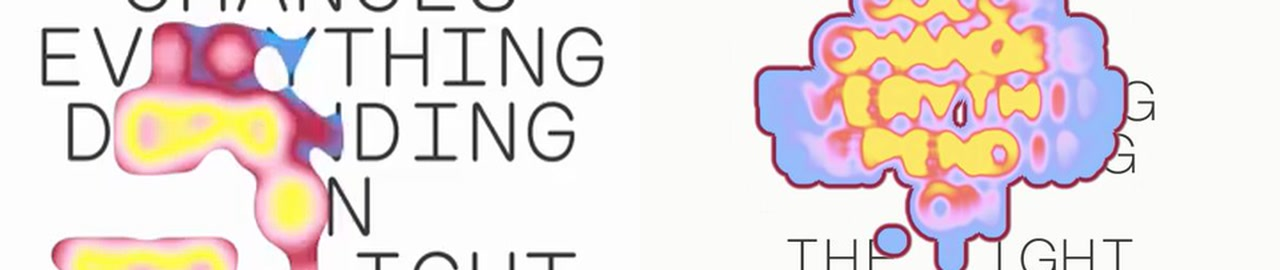
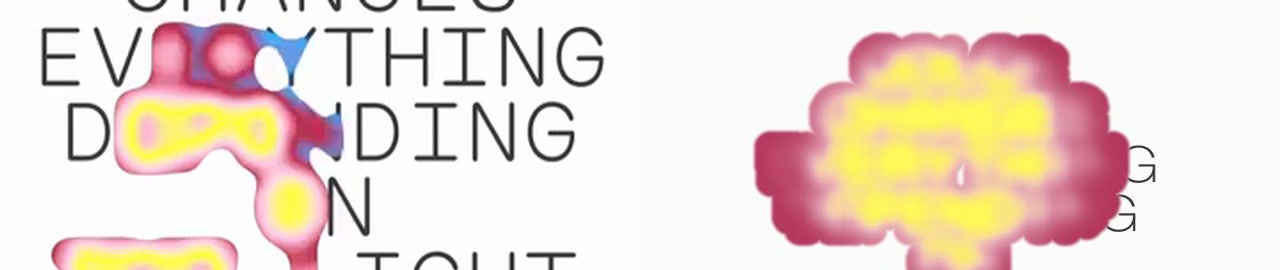
fix: blend color field without outline

Changed region(s): [[0.5625, 0.0, 0.9062, 1.0]]

diff --git a/pages/color-changes/script.ts b/pages/color-changes/script.ts
@@ -6,8 +6,8 @@ const ART_HEIGHT = 600;
 const TEXTURE_SCALE = 3;
 const FIELD_WIDTH = ART_WIDTH;
 const FIELD_HEIGHT = ART_HEIGHT;
-const COLOR_BLUR_TAPS = 12;
-// Coverage stops at 10.2 artwork pixels, so a local 16→1 flood is sufficient.
+const COLOR_BLUR_TAPS = 20;
+// Coverage stops inside the local 16 px search radius, so a 16→1 flood is sufficient.
 const JFA_JUMPS = [16, 8, 4, 2, 1, 1];
 const searchParams = new URLSearchParams(window.location.search);
 const QA_MODE = searchParams.has('qa');
@@ -28,11 +28,10 @@ const state = {
   lightFalloff: 0.12,
   seedThreshold: 0.085,
   bodyRadius: 13.4,
-  rimWidth: 3.6,
-  colorBlurSigma: 6.0,
+  colorBlurSigma: 9.0,
   colorBlurStep: 1.0,
-  colorFloor: 0.055,
-  colorRange: 0.64,
+  colorFloor: 0.035,
+  colorRange: 0.55,
   hueBands: 0.31,
   colorCycle: 8.0,
   pointerEase: 4.3,
@@ -351,7 +350,6 @@ const finalMaterial = new THREE.ShaderMaterial({
     uniform vec2 uPosterSize;
     uniform vec2 uArtSize;
     uniform float uBodyRadius;
-    uniform float uRimWidth;
     uniform float uColorFloor;
     uniform float uColorRange;
     uniform float uHueBands;
@@ -368,16 +366,6 @@ const finalMaterial = new THREE.ShaderMaterial({
       return fract(52.9829189 * fract(dot(pixel, vec2(0.06711056, 0.00583715))));
     }
 
-    float coverageAt(vec2 sampleUv) {
-      if (sampleUv.x < 0.0 || sampleUv.x > 1.0 || sampleUv.y < 0.0 || sampleUv.y > 1.0) {
-        return 0.0;
-      }
-      vec4 sampleNearest = texture2D(uNearest, sampleUv);
-      if (sampleNearest.a < 0.5) return 0.0;
-      float sampleDistance = length((sampleUv - sampleNearest.xy) * uArtSize);
-      return 1.0 - smoothstep(uBodyRadius - 1.1, uBodyRadius + 1.1, sampleDistance);
-    }
-
     void main() {
       vec2 fragment = vUv * uResolution;
       vec2 artUv = (fragment - uPosterOffset) / uPosterSize;
@@ -391,7 +379,6 @@ const finalMaterial = new THREE.ShaderMaterial({
       float textMask = texture2D(uText, artUv).a;
       vec4 nearest = texture2D(uNearest, artUv);
       float coverage = 0.0;
-      float rimMix = 0.0;
       float colorEnergy = 0.0;
       float strokeDensity = 0.0;
       float distanceToStroke = uBodyRadius + 2.0;
@@ -401,23 +388,12 @@ const finalMaterial = new THREE.ShaderMaterial({
         vec2 blurredField = texture2D(uColorField, artUv).rg;
         colorEnergy = blurredField.r / max(blurredField.g, 0.004);
         strokeDensity = blurredField.g;
-        float antialiasWidth = max(1.55, fwidth(distanceToStroke) * 1.28);
+        float antialiasWidth = max(2.35, fwidth(distanceToStroke) * 1.38);
         coverage = 1.0 - smoothstep(
           uBodyRadius - antialiasWidth,
           uBodyRadius + antialiasWidth,
           distanceToStroke
         );
-        vec2 rimStep = vec2(uRimWidth) / uArtSize;
-        float erodedCoverage = 1.0;
-        erodedCoverage = min(erodedCoverage, coverageAt(artUv + vec2( rimStep.x, 0.0)));
-        erodedCoverage = min(erodedCoverage, coverageAt(artUv + vec2(-rimStep.x, 0.0)));
-        erodedCoverage = min(erodedCoverage, coverageAt(artUv + vec2(0.0,  rimStep.y)));
-        erodedCoverage = min(erodedCoverage, coverageAt(artUv + vec2(0.0, -rimStep.y)));
-        erodedCoverage = min(erodedCoverage, coverageAt(artUv + vec2( rimStep.x,  rimStep.y) * 0.7071));
-        erodedCoverage = min(erodedCoverage, coverageAt(artUv + vec2(-rimStep.x,  rimStep.y) * 0.7071));
-        erodedCoverage = min(erodedCoverage, coverageAt(artUv + vec2( rimStep.x, -rimStep.y) * 0.7071));
-        erodedCoverage = min(erodedCoverage, coverageAt(artUv + vec2(-rimStep.x, -rimStep.y) * 0.7071));
-        rimMix = 1.0 - smoothstep(0.08, 0.92, erodedCoverage);
       }
 
       float visibleText = textMask * 0.92 * (1.0 - coverage);
@@ -430,26 +406,20 @@ const finalMaterial = new THREE.ShaderMaterial({
         0.0,
         1.0
       );
-      float strokeCarrier = smoothstep(0.025, 0.16, strokeDensity);
-      float fineOffset = distanceToStroke / 3.8;
+      float strokeCarrier = smoothstep(0.01, 0.28, strokeDensity);
+      float fineOffset = distanceToStroke / 4.8;
       float fineCarrier = exp(-0.5 * fineOffset * fineOffset);
-      float combinedCarrier = mix(strokeCarrier, fineCarrier, 0.16);
-      float transportedEnergy = normalizedEnergy * mix(0.22, 1.0, combinedCarrier);
-      float bandProgress = smoothstep(0.02, 0.96, transportedEnergy);
-      float hueOffset = mix(-0.25, uHueBands, bandProgress);
-      float hue = fract(palettePhase + hueOffset);
-      float middleOffset = (transportedEnergy - 0.34) / 0.20;
-      float middleWash = exp(-(middleOffset * middleOffset));
-      float saturation = mix(0.48, 0.80, smoothstep(0.35, 1.0, transportedEnergy));
-      saturation *= 1.0 - middleWash * 0.55;
-      vec3 goo = hsvToRgb(vec3(hue, saturation, 1.0));
-      float hotStrength = smoothstep(0.78, 1.0, transportedEnergy);
-      vec3 hotColor = hsvToRgb(vec3(fract(palettePhase + 0.025), 0.68, 1.0));
-      goo = mix(goo, hotColor, hotStrength * 0.12);
+      float combinedCarrier = mix(strokeCarrier, fineCarrier, 0.04);
+      float transportedEnergy = normalizedEnergy * mix(0.36, 1.0, combinedCarrier);
+      vec3 edgeRose = hsvToRgb(vec3(fract(palettePhase + 0.095), 0.80, 0.76));
+      vec3 pinkMist = hsvToRgb(vec3(fract(palettePhase + 0.115), 0.22, 1.0));
+      vec3 hotColor = hsvToRgb(vec3(fract(palettePhase + uHueBands), 0.86, 1.0));
+      float mistBlend = smoothstep(0.00, 0.58, transportedEnergy);
+      float hotBlend = smoothstep(0.34, 0.82, transportedEnergy);
+      vec3 goo = mix(edgeRose, pinkMist, mistBlend);
+      goo = mix(goo, hotColor, hotBlend);
 
-      vec3 rimColor = hsvToRgb(vec3(fract(palettePhase + 0.10), 0.88, 0.62));
-      vec3 strokeColor = mix(goo, rimColor, rimMix);
-      vec3 result = mix(base, strokeColor, coverage);
+      vec3 result = mix(base, goo, coverage);
       float dither = (interleavedGradientNoise(fragment) - 0.5) / 255.0;
       result += vec3(dither * coverage * 0.45);
 
@@ -465,7 +435,6 @@ const finalMaterial = new THREE.ShaderMaterial({
     uPosterSize: { value: new THREE.Vector2(ART_WIDTH, ART_HEIGHT) },
     uArtSize: { value: new THREE.Vector2(ART_WIDTH, ART_HEIGHT) },
     uBodyRadius: { value: state.bodyRadius },
-    uRimWidth: { value: state.rimWidth },
     uColorFloor: { value: state.colorFloor },
     uColorRange: { value: state.colorRange },
     uHueBands: { value: state.hueBands },
@@ -574,9 +543,6 @@ function bindGui(): void {
   });
   gui.add(state, 'bodyRadius', 4, 24, 0.1).onChange((value: number) => {
     finalMaterial.uniforms.uBodyRadius.value = value;
-  });
-  gui.add(state, 'rimWidth', 0.5, 6, 0.1).onChange((value: number) => {
-    finalMaterial.uniforms.uRimWidth.value = value;
   });
   gui.add(state, 'colorBlurSigma', 0.5, 12, 0.1).onChange((value: number) => {
     colorBlurMaterial.uniforms.uSigma.value = value;

diff --git a/design-qa.md b/design-qa.md
@@ -47,8 +47,9 @@ image therefore use the same crop, dimensions, and frozen palette state.
 - Final implementation evidence: the focused `Y` crop has no isolated round
   hotspot at the junction. Geometry still comes from distance to the nearest
   active glyph seed, while the fine carrier adds only a directional bias inside
-  a broader low-frequency color field. The 1.55 px derivative antialiasing shows
-  no square texels or stepped contours at native output or in the DPR 2 capture.
+  a broader low-frequency color field. The 2.35 px derivative-aware transition
+  shows no square texels, stepped contours, or one-pixel outline at native output
+  or in the DPR 2 capture.
 - The 1440 × 1800 text mask remains high resolution. The 480 × 600 half-float
   geometry field matches the native source resolution. A local 16 px jump flood
   covers the 13.4 px body radius and receives a second one-pixel cleanup pass.
@@ -59,13 +60,17 @@ image therefore use the same crop, dimensions, and frozen palette state.
 - Color is no longer derived from the silhouette density. A normalized field
   separately blurs `activation × glyph` and `glyph`, divides them, and uses the
   blurred glyph denominator as its main low-frequency carrier.
-- The six-pixel carrier merges individual character details before palette
-  mapping. Only 16% of the fine nearest-stroke signal remains, enough to preserve
+- The nine-pixel carrier merges individual character details before palette
+  mapping. Only 4% of the fine nearest-stroke signal remains, enough to preserve
   directional junction behavior without making `THE`, `ON`, or `DEPENDING`
   legible as thick colored typography.
-- The dark rim now comes from erosion of the union coverage, rather than from a
-  distance band around every seed. Internal seams between neighboring letters
-  therefore disappear while the outer silhouette and true holes retain a rim.
+- The former erosion-derived rim and its fixed dark color were removed entirely.
+  Rose, pale pink, and the hot color now overlap in RGB across the same scalar
+  energy field. Low energy naturally darkens toward the boundary, so the result
+  has depth without reading as a separately drawn outline.
+- The enlarged Gaussian kernel and overlapping smoothstep ranges remove the
+  discrete blue/pink/yellow bands seen in the previous pass while retaining the
+  reference's pale transition zone around each hot core.
 - The charcoal underprint is fully occluded inside colored coverage, removing
   the previous comb-line interference.
 
@@ -129,6 +134,17 @@ image therefore use the same crop, dimensions, and frozen palette state.
      top copy and fragments outside the colored coverage, not words inside it.
    - No actionable P0, P1, or P2 mismatch remains for stroke-dependent geometry,
      non-legible color diffusion, smooth contours, gradient continuity, or delay.
+7. Outline and continuity comparison.
+   - Finding after handoff — P1: the union erosion still produced a uniform dark
+     perimeter. Even without internal letter seams, it read as a literal outline,
+     and the HSV ramp separated low- and high-energy colors too abruptly.
+   - Fix: delete the rim pass and map the nine-pixel energy field through three
+     overlapping RGB anchors. Increase silhouette antialiasing to 2.35 px and
+     reduce the fine distance carrier from 16% to 4%.
+   - Verification: in `compare-distance-final.jpg`, the implementation boundary
+     now changes continuously from background to rose and then pale pink; there
+     is no fixed-color contour. In `y-legibility-final.jpg`, the central color
+     follows the junction region but does not reconstruct complete colored words.
 
 ## Findings
 

diff --git a/pages/color-changes/spec.md b/pages/color-changes/spec.md
@@ -20,19 +20,19 @@
 5. Build the visible silhouette from the exact distance to that nearest glyph.
    The body expands each stroke by a nearly constant width, including through
    `Y` junctions, instead of accumulating a Gaussian hotspot where multiple
-   strokes meet. Derive the dark rim by eroding the complete union silhouette;
-   this avoids outlining every character separately where neighboring expansions
-   overlap.
-6. Build color in a separate field. A small Gaussian filter blurs both
+   strokes meet. Coverage ends with a derivative-aware 2.35 px transition; there
+   is no separate outline or rim pass.
+6. Build color in a separate field. A nine-pixel Gaussian filter blurs both
    `activation × glyph` and `glyph`; dividing the two produces a normalized
    energy value that stays smooth without making intersections brighter merely
    because more stroke pixels overlap the kernel.
-7. Drive the color core mostly from the six-pixel Gaussian glyph-density field,
-   with only a 16% fine nearest-stroke carrier. The low-frequency carrier keeps
-   the `Y` response directional but merges adjacent character details, so the
-   colored area reads as light/goo rather than as a thick display font.
+7. Drive the color core from that low-frequency density field, retaining only a
+   4% fine nearest-stroke carrier. Map energy through overlapping rose, pale-pink,
+   and hot-color RGB blends instead of a single HSV ramp. The boundary color is
+   therefore the low-energy end of the same continuous field, not a fixed stroke.
 8. Fully occlude the charcoal underprint inside the colored coverage, add only
-   sub-pixel dithering inside that coverage, and animate the palette over time.
+   sub-pixel dithering inside that coverage, and animate all three palette anchors
+   over time.
 
 Geometry and color are deliberately independent. Geometry is a nearest-stroke
 distance field; Gaussian filtering is used only to smooth the color carried by
@@ -63,9 +63,10 @@ implementation, which produced a round central blob at `Y` intersections.
   taper toward the vertical edges
 - Geometry/color field resolution: 480 × 600, half-float RGBA render targets
 - Nearest-stroke solver: local jump flooding from 16 px to 1 px plus one cleanup
-  pass (the complete sequence propagates farther than the visible body and rim)
+  pass (the complete sequence propagates farther than the visible body)
 - Stroke expansion radius: 13.4 px
-- Rim width: 3.6 px with derivative-based antialiasing
-- Normalized color/glyph-density blur sigma: 6 px
+- Silhouette antialiasing: minimum 2.35 px with derivative scaling
+- Normalized color/glyph-density blur sigma: 9 px, 20 taps per side
+- Fine nearest-stroke color carrier: 4%
 - Pointer maximum speed: 300 reference px/s
 - Activation attack/release: 55 ms / 340 ms
